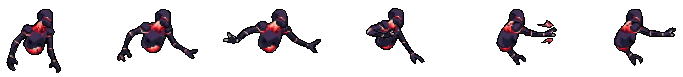
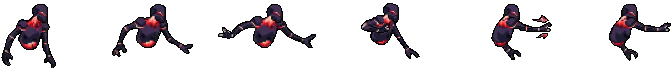
보스 소환 스킬 추가

diff --git a/monster.py b/monster.py
@@ -1,0 +1,221 @@
+# monster.py
+from pico2d import *
+import game_framework
+import game_world
+import server
+from state_machine import StateMachine
+
+PIXEL_PER_METER = (10.0 / 0.3)
+RUN_SPEED_KMPH = 18.0
+RUN_SPEED_MPM = (RUN_SPEED_KMPH * 1000.0 / 60.0)
+RUN_SPEED_MPS = (RUN_SPEED_MPM / 60.0)
+RUN_SPEED_PPS = (RUN_SPEED_MPS * PIXEL_PER_METER)
+
+TIME_PER_ACTION = 0.5
+ACTION_PER_TIME = 1.0 / TIME_PER_ACTION
+FRAMES_PER_ACTION = 8
+
+time_out = lambda e: e[0] == 'TIMEOUT'
+player_in_attack_range = lambda e: e[0] == 'PLAYER_IN_ATTACK_RANGE'
+player_out_of_range = lambda e: e[0] == 'PLAYER_OUT_OF_RANGE'
+hit_by_book = lambda e: e[0] == 'HIT_BY_BOOK'
+hp_is_zero = lambda e: e[0] == 'HP_IS_ZERO'
+attack_finished = time_out
+hurt_finished = time_out
+
+
+MONSTER_ANIMATION_DATA = {
+    'Idle': [(0, 0, 62, 72), (118, 0, 62, 72), (236, 0, 62, 72), (354, 0, 62, 72), (472, 0, 62, 72),
+             (590, 0, 62, 72)],
+    'Walk': [(0, 0, 36, 69), (118, 0, 36, 69), (236, 0, 36, 69), (348, 0, 36, 69)],
+    'Attack': [(0, 0, 58, 70), (109, 0, 86, 70), (214, 0, 104, 70), (358, 0, 63, 70), (488, 0, 66, 70),
+               (606, 0, 66, 70)],
+    'Hurt': [(0, 0, 60, 68), (110, 0, 87, 68), (224, 0, 87, 68), ],
+    'Dead': [(0, 0, 60, 79), (118, 0, 57, 79), (235, 0, 60, 79), (354, 0, 66, 79), (468, 0, 70, 79)]
+}
+
+
+class MonsterIdle:
+    def __init__(self, monster):
+        self.monster = monster
+        self.image = load_image('./적/보스/몬스터/Idle.png')
+        self.frames = MONSTER_ANIMATION_DATA['Idle']
+
+    def enter(self, e):
+        self.monster.frame = 0
+        self.monster.dir = 0
+
+    def do(self):
+        self.monster.frame = (self.monster.frame + FRAMES_PER_ACTION * ACTION_PER_TIME * game_framework.frame_time) % len(self.frames)
+        dist = abs(self.monster.x - self.monster.target.x)
+        if dist < 100:
+            self.monster.state_machine.handle_state_event(('PLAYER_IN_ATTACK_RANGE', None))
+        elif dist < 800:
+            self.monster.state_machine.handle_state_event(('PLAYER_IN_SIGHT_RANGE', None))
+
+    def exit(self, e):
+        pass
+
+    def draw(self):
+        self.monster.draw_image(self.image, self.frames)
+
+    def get_bb(self):
+        return self.monster.x - 30, self.monster.y - 40, self.monster.x + 30, self.monster.y + 40
+
+
+class MonsterWalk:
+    def __init__(self, monster):
+        self.monster = monster
+        self.image = load_image('./적/보스/몬스터/Walk.png')
+        self.frames = MONSTER_ANIMATION_DATA['Walk']
+
+    def enter(self, e):
+        self.monster.frame = 0
+
+    def do(self):
+        diff = self.monster.target.x - self.monster.x
+        self.monster.dir = 1 if diff > 0 else -1
+        self.monster.face_dir = self.monster.dir
+        self.monster.x += self.monster.dir * RUN_SPEED_PPS * game_framework.frame_time
+
+        self.monster.frame = ( self.monster.frame + FRAMES_PER_ACTION * ACTION_PER_TIME * game_framework.frame_time) % len(self.frames)
+
+        dist = abs(diff)
+        if dist < 100:
+            self.monster.state_machine.handle_state_event(('PLAYER_IN_ATTACK_RANGE', None))
+        elif dist > 1000:
+            self.monster.state_machine.handle_state_event(('PLAYER_OUT_OF_RANGE', None))
+
+    def exit(self, e):
+        pass
+
+    def draw(self):
+        self.monster.draw_image(self.image, self.frames)
+
+    def get_bb(self):
+        return self.monster.x - 40, self.monster.y - 70, self.monster.x + 40, self.monster.y + 70
+
+
+class MonsterAttack:
+    def __init__(self, monster):
+        self.monster = monster
+        self.image = load_image('./적/보스/몬스터/Attack.png')
+        self.frames = MONSTER_ANIMATION_DATA['Attack']
+
+    def enter(self, e):
+        self.monster.frame = 0
+
+    def do(self):
+        self.monster.frame = (self.monster.frame + FRAMES_PER_ACTION * ACTION_PER_TIME * game_framework.frame_time)
+        if self.monster.frame >= len(self.frames):
+            self.monster.state_machine.handle_state_event(('TIMEOUT', None))
+
+    def exit(self, e): pass
+
+    def draw(self): self.monster.draw_image(self.image, self.frames)
+
+    def get_bb(self):
+        if self.monster.face_dir == -1:
+            return self.monster.x - 70, self.monster.y - 70, self.monster.x + 70, self.monster.y + 70
+        else:
+            return self.monster.x - 70, self.monster.y - 70, self.monster.x + 70, self.monster.y + 70
+
+
+class MonsterHurt:
+    def __init__(self, monster):
+        self.monster = monster
+        self.image = load_image('./적/보스/몬스터/Hurt.png')
+        self.frames = MONSTER_ANIMATION_DATA['Hurt']
+
+    def enter(self, e): self.monster.frame = 0
+
+    def do(self):
+        self.monster.frame += FRAMES_PER_ACTION * ACTION_PER_TIME * game_framework.frame_time
+        if self.monster.frame >= len(self.frames): self.monster.state_machine.handle_state_event(('TIMEOUT', None))
+
+    def exit(self, e): pass
+
+    def draw(self): self.monster.draw_image(self.image, self.frames)
+
+    def get_bb(self):
+        return self.monster.x - 70, self.monster.y - 50, self.monster.x + 70, self.monster.y + 50
+
+class MonsterDead:
+    def __init__(self, monster):
+        self.monster = monster
+        self.image = load_image('./적/보스/몬스터/Dead.png')
+        self.frames = MONSTER_ANIMATION_DATA['Dead']
+
+    def enter(self, e):
+        self.monster.frame = 0
+        game_world.remove_collision_object(self.monster)
+        server.enemies_killed_count += 1
+
+    def do(self):
+        self.monster.frame += FRAMES_PER_ACTION * ACTION_PER_TIME * game_framework.frame_time
+        if self.monster.frame >= len(self.frames): self.monster.frame = len(self.frames) - 1
+
+    def exit(self, e): pass
+
+    def draw(self): self.monster.draw_image(self.image, self.frames)
+
+    def get_bb(self): return 0, 0, 0, 0
+
+
+class Monster:
+    def __init__(self, x, y, target):
+        self.x, self.y = x, y
+        self.target = target
+        self.frame = 0
+        self.dir = 0
+        self.face_dir = -1
+        self.hp = 3
+
+        self.IDLE = MonsterIdle(self)
+        self.WALK = MonsterWalk(self)
+        self.ATTACK = MonsterAttack(self)
+        self.HURT = MonsterHurt(self)
+        self.DEAD = MonsterDead(self)
+
+        self.state_machine = StateMachine(self.IDLE, {
+            self.IDLE: {lambda e: e[0] == 'PLAYER_IN_SIGHT_RANGE': self.WALK,
+                        lambda e: e[0] == 'PLAYER_IN_ATTACK_RANGE': self.ATTACK, hit_by_book: self.HURT,
+                        hp_is_zero: self.DEAD},
+            self.WALK: {player_out_of_range: self.IDLE, lambda e: e[0] == 'PLAYER_IN_ATTACK_RANGE': self.ATTACK,
+                        hit_by_book: self.HURT, hp_is_zero: self.DEAD},
+            self.ATTACK: {attack_finished: self.IDLE, hit_by_book: self.HURT, hp_is_zero: self.DEAD},
+            self.HURT: {hurt_finished: self.IDLE, hp_is_zero: self.DEAD},
+            self.DEAD: {}
+        })
+
+    def update(self):
+        self.x += game_world.scroll_speed * game_framework.frame_time
+        self.state_machine.update()
+
+    def draw(self):
+        self.state_machine.draw()
+        draw_rectangle(*self.get_bb())
+
+    def draw_image(self, image, frames):
+        idx = int(self.frame)
+        if idx >= len(frames): idx = len(frames) - 1
+        l, b, w, h = frames[idx]
+        if self.face_dir == -1:
+            image.clip_composite_draw(l, b, w, h, 0, 'h', self.x, self.y, w * 2, h * 2)
+        else:
+            image.clip_composite_draw(l, b, w, h, 0, '', self.x, self.y, w * 2, h * 2)
+
+    def get_bb(self):
+        return self.state_machine.get_bb()
+
+    def get_bb_rect(self):
+        return self.x - 20, self.y - 35, self.x + 20, self.y + 35
+
+    def handle_collision(self, group, other):
+        if group == 'book:enemy':
+            if self.state_machine.cur_state == self.DEAD: return
+            self.hp -= other.damage
+            if self.hp <= 0:
+                self.state_machine.handle_state_event(('HP_IS_ZERO', None))
+            else:
+                self.state_machine.handle_state_event(('HIT_BY_BOOK', None))

diff --git a/final_boss.py b/final_boss.py
@@ -6,6 +6,7 @@ import server
 
 from state_machine import StateMachine
 from coin import Coin
+from monster import Monster
 
 PIXEL_PER_METER = (10.0 / 0.3)
 RUN_SPEED_KMPH = 10.0
@@ -58,6 +59,13 @@ class BossIdle:
             self.frames)
         dist_to_player = abs(self.boss.x - self.boss.girl.x)
 
+        if get_time() - self.boss.skill_timer > self.boss.skill_cooldown:
+            if dist_to_player < 800:
+                self.boss.skill_timer = get_time()
+                self.boss.skill_cooldown = random.uniform(5.0, 10.0)
+                self.boss.state_machine.handle_state_event(('USE_SKILL', None))
+                return
+
         if dist_to_player < 100:
             self.boss.state_machine.handle_state_event(('PLAYER_IN_ATTACK_RANGE', None))
         elif dist_to_player < 800:
@@ -84,6 +92,15 @@ class BossWalk:
         self.boss.frame = 0.0
 
     def do(self):
+        dist_to_player = abs(self.boss.girl.x - self.boss.x)
+
+        if get_time() - self.boss.skill_timer > self.boss.skill_cooldown:
+            if dist_to_player < 800:
+                self.boss.skill_timer = get_time()
+                self.boss.skill_cooldown = random.uniform(5.0, 10.0)
+                self.boss.state_machine.handle_state_event(('USE_SKILL', None))
+                return
+
         self.boss.update_move()
         self.boss.frame = (self.boss.frame + FRAMES_PER_ACTION * ACTION_PER_TIME * game_framework.frame_time) % len(
             self.frames)
@@ -176,6 +193,48 @@ class BossDead:
         return 0, 0, 0, 0
 
 
+class BossAction:
+    def __init__(self, boss):
+        self.boss = boss
+        self.image = load_image('./적/보스/보스/Action.png')
+        self.frames = BOSS_ANIMATION_DATA['Action']
+
+    def enter(self, e):
+        self.boss.dir = 0
+        self.boss.frame = 0.0
+        self.spawned = False
+
+    def do(self):
+        self.boss.frame = (self.boss.frame + FRAMES_PER_ACTION * ACTION_PER_TIME * game_framework.frame_time)
+
+        if int(self.boss.frame) == 6 and not self.spawned:
+            self.spawn_monster()
+            self.spawned = True
+
+        if self.boss.frame >= len(self.frames):
+            self.boss.state_machine.handle_state_event(('TIMEOUT', None))
+
+    def spawn_monster(self):
+        spawn_x = self.boss.x + (150 * self.boss.face_dir)
+        spawn_y = self.boss.y - 50
+
+        minion = Monster(spawn_x, spawn_y, self.boss.girl)
+
+        game_world.add_object(minion, 3)
+
+        game_world.add_collision_pair('girl:enemy', None, minion)
+        game_world.add_collision_pair('book:enemy', None, minion)
+
+    def exit(self, e):
+        pass
+
+    def draw(self):
+        self.boss.draw_image(self.image, self.frames)
+
+    def get_bb(self):
+        return self.boss.get_bb_rect()
+
+
 class FinalBoss:
     font = None
     hp_bar_bg = None
@@ -193,6 +252,9 @@ class FinalBoss:
 
         self.scale = 2.0
 
+        self.skill_timer = get_time()
+        self.skill_cooldown = random.uniform(5.0, 10.0)
+
         if FinalBoss.font is None: FinalBoss.font = load_font('ENCR10B.TTF', 16)
         if FinalBoss.hp_bar_bg is None: FinalBoss.hp_bar_bg = load_image('./UI/체력바.png')
         if FinalBoss.hp_bar_fill is None: FinalBoss.hp_bar_fill = load_image('./UI/체력줄.png')
@@ -202,17 +264,22 @@ class FinalBoss:
         self.ATTACK = BossAttack(self)
         self.HURT = BossHurt(self)
         self.DEAD = BossDead(self)
+        self.ACTION = BossAction(self)
+
+        self.skill_timer = get_time()
 
         self.state_machine = StateMachine(
             self.IDLE,
             {
                 self.IDLE: {player_in_sight_range: self.WALK, player_in_attack_range: self.ATTACK,
-                            hit_by_book: self.HURT, hp_is_zero: self.DEAD},
+                            hit_by_book: self.HURT, hp_is_zero: self.DEAD, use_skill: self.ACTION},
                 self.WALK: {player_in_attack_range: self.ATTACK, player_out_of_range: self.IDLE, hit_by_book: self.HURT,
-                            hp_is_zero: self.DEAD},
+                            hp_is_zero: self.DEAD, use_skill: self.ACTION},
                 self.ATTACK: {attack_finished: self.IDLE, hit_by_book: self.HURT, hp_is_zero: self.DEAD},
                 self.HURT: {hurt_finished: self.IDLE, hp_is_zero: self.DEAD},
-                self.DEAD: {}
+                self.DEAD: {},
+                self.ACTION: {attack_finished: self.IDLE, hit_by_book: self.HURT, hp_is_zero: self.DEAD
+                }
             }
         )
 
